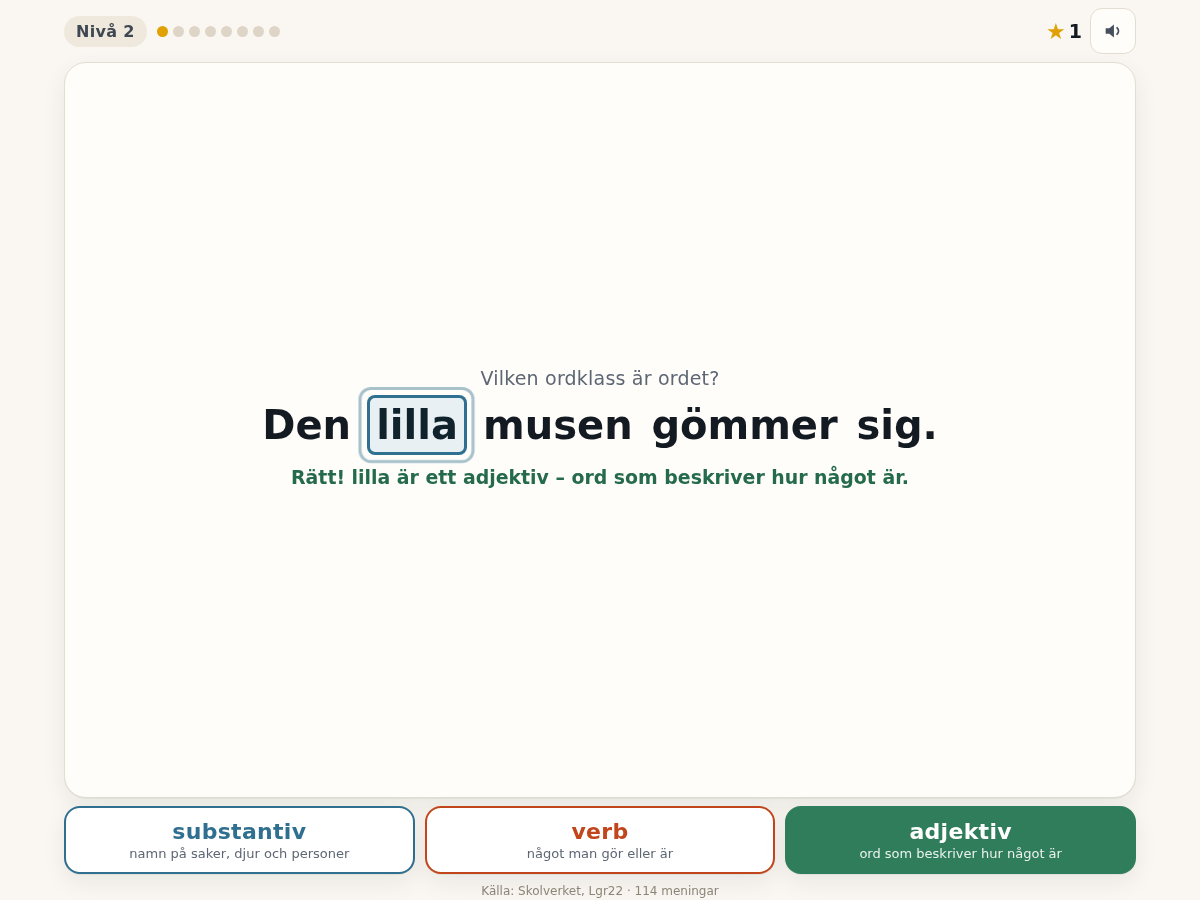
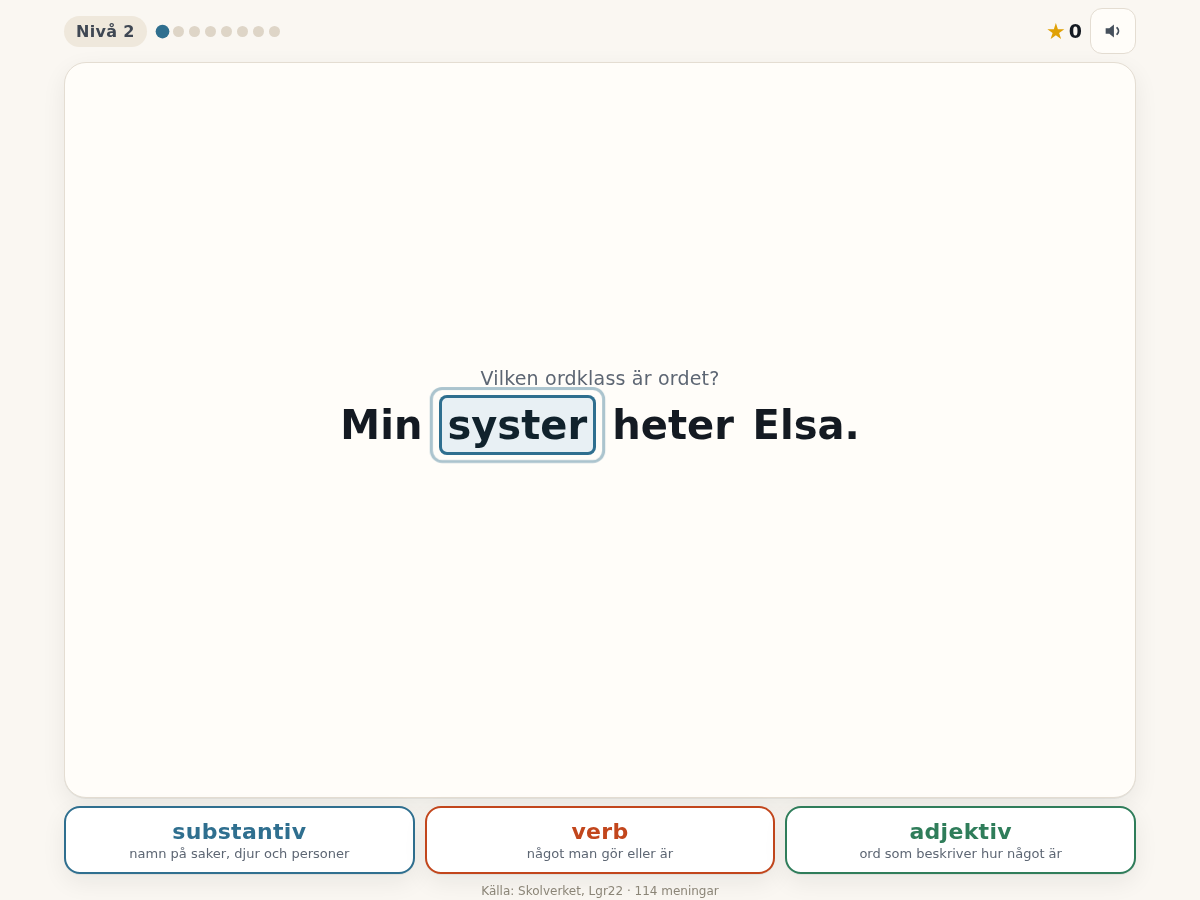
KONCEPT, INSKICK, README och kortbild

Changed region(s): [[0.2158, 0.4044, 0.7708, 0.56], [0.6475, 0.8711, 0.9558, 0.9956], [0.1233, 0.0311, 0.1542, 0.0622]]

diff --git a/KONCEPT.md b/KONCEPT.md
@@ -1,0 +1,58 @@
+# Ordklassjakten – koncept och testplan
+
+**Mål (en sak):** eleven ska kunna avgöra vilken ordklass ett ord i en mening tillhör.
+**Målgrupp:** svenska åk 4–6 (9–11 år). Läskunnig, men inte van vid grammatiska etiketter.
+**Kärnmekanik (touch först):** en riktig mening står i mitten, ett ord lyser med pulserande ram.
+Fyra (nivå 1: två) stora knappar längst ned: substantiv, verb, adjektiv, pronomen. Ett tryck = ett svar.
+**5-minuterssession:** 8 uppgifter per runda, tre nivåer, rundan tar 2–3 minuter – "en runda till" är billig.
+**Belöning barnet kan berätta om:** stjärnor (en per rätt svar på första försöket) och en rad som säger
+vad ordet var ("stänger är ett verb – något man gör eller är").
+**Vad barnet lär:** kriteriet för varje ordklass, inte bara etiketten; att tempusformer (sprang, läste)
+fortfarande är verb och att pronomen står i stället för namn.
+**Lgr22:** SV.4-6.1.7 – "Stavning, ords böjningsformer och ordklasser." (ordagrant ur Skolverkets
+centrala innehåll, hämtat via get_curriculum 2026-11-25). Punktens text i sin helhet citeras på
+startskärmen.
+**Varför iPad:** två tryckytor i botten som en 9-åring träffar med tummen, ingen drag, ingen text
+som måste scrollas, inget ljud som krävs (allt står också skrivet), inga länkar ut.
+
+## Testplan (mätbara krav)
+
+| Krav | Mätning | Utfall |
+|---|---|---|
+| Allt ryms, ingen sidscroll | `scrollHeight-innerHeight` = 0 och `scrollWidth-innerWidth` = 0 i 1024×768, 768×1024, 390×844, 1440×900 | 0/0 i alla fyra, både på startskärmen och i spelet |
+| Tryckytor | minst 56 px höga (åk 3–6 → ≥ 56) | 68 px (iPad/desktop), 78 px (390 px telefon) |
+| Spelbart med bara fingrar | hela rundan med `Input.dispatchTouchEvent` (touchStart/Move/End) | nivå 1: 8/8, nivå 3: 8/8 med fyra knappar 242 px breda |
+| Tangentbord som tredje väg | siffra 1–4 väljer knapp | `2` gav rätt svar på "hörde" |
+| Återkoppling + nytt försök | fel svar flyttar inte uppgiften, andra felet tänder rätt knapp | verifierat: `S.i` stod kvar, rätt knapp fick puls |
+| Ingen förlust | stjärnor kan inte bli negativa, ingen timer | 7/8 efter ett avsiktligt fel |
+| Faktakontroll | ordet finns exakt en gång i meningen, ett ord = en klass, 9 000 rundor | `node verify.mjs`: 114 uppgifter, 0 fel |
+| Mörk/ljus, rörelse | `prefers-reduced-motion` stänger av puls | `animationName: none` |
+| Inga externa resurser | bara `kotten.js` från skolappar.com | alla andra filer lokala |
+
+## Validering före bygge (go/no-go)
+
+`delegate_task` finns inte i den här körningens verktyg, så granskningen gjordes som en skriven
+självkritik mot de tre frågorna:
+(a) *Spelar ett barn frivilligt 5 minuter?* Ja om rundan är kort och svaret ger en förklaring –
+därför 8 uppgifter, stjärnor och "en runda till". Svagheten är att mekaniken är en frågesport utan
+rörelse; motmedlet är att målet lyser i meningen så att barnet slipper leta.
+(b) *Träffar det ett verkligt kunskapskrav?* Ja, SV.4-6.1.7 nämner ordklasser uttryckligen, och
+ordklasser förhörs i nationella provens språkdel i åk 6.
+(c) *Teknisk risk?* Låg: ingen fysik, ingen canvas, ingen server. Den verkliga risken är grammatisk
+– därför bara entydiga ord (inga adverb på -t, inga partiklar) och en verifierare som kontrollerar
+att varje ord hör till en och bara en klass. **GO.**
+
+## Iteration efter test
+
+1. Fel-svaret var först "Titta på ordet en gång till", vilket inte säger något om *varför*. Nu:
+   "Inte riktigt. stänger är inte ett substantiv. Prova igen." – barnets hypotes namnges, kriteriet
+   blir synligt.
+2. Kortbilden togs först direkt efter ett rätt svar (utfylld grön knapp + förklaring), vilket läste
+   som en resultatskärm. Ny bild: pågående uppgift, mening + markerat ord + de tre knapparna.
+
+## Vad som återstår
+
+Publicering på `ordklassjakten.shipholm.dev` är blockerad: kontot har 50 av 50 appar (Pro-planen).
+Repot är pushat (`github.com/magnusfroste/ordklassjakten`, `main` = 5cc329c) och appen är testad
+lokalt; `create_app` svarar "the pro plan allows 50 apps and you have 50". Katalograd, bild och
+Lgr22-punkter läggs in så snart en plats finns.

diff --git a/INSKICK.md b/INSKICK.md
@@ -1,0 +1,24 @@
+# Inskick till katalogen – Ordklassjakten
+
+- **Titel:** Ordklassjakten
+- **Slug/URL (när publicerad):** https://ordklassjakten.shipholm.dev
+- **Kort beskrivning:** Läs meningen och välj vilken ordklass ordet som lyser tillhör: substantiv, verb,
+  adjektiv eller pronomen. 114 meningar i tre nivåer.
+- **long_description:** Ordklassjakten är ett träningsspel i svenska för åk 4–6. Varje uppgift är en
+  riktig mening där ett ord är markerat, och eleven väljer vilken ordklass ordet tillhör. Nivå 1 blandar
+  substantiv och verb, nivå 2 lägger till adjektiv och nivå 3 pronomen, alltså fyra klasser och fyra
+  svarsknappar. Efter varje svar förklaras klassen med en rad – "stänger är ett verb: något man gör
+  eller är" – så att eleven får själva kriteriet och inte bara rätt eller fel. Fel svar kostar inget:
+  eleven får en ny chans, och efter två försök pulserar rätt knapp. Åtta uppgifter per runda, stjärna
+  för rätt svar på första försöket, och en tydlig slutskärm med "en runda till" eller nästa nivå.
+  114 meningar, alla skrivna för appen och kontrollerade av ett testskript som prövar att varje ord
+  hör till en och bara en ordklass. Frågan läses också upp på svenska, men allt står skrivet så att
+  appen fungerar i ett tyst klassrum. Ingen inloggning, inga annonser, inga länkar ut.
+- **Ämne:** Språk (svenska)
+- **Årskurs:** 3–6
+- **Typ:** Öva
+- **Enhet:** Alla enheter (iPad först)
+- **Lgr22:** SV.4-6.1.7 – "Stavning, ords böjningsformer och ordklasser."
+- **Kortbild:** `public/kort.png` (1200×900, spelmoment: mening med markerat ord och svarsknappar)
+
+Källa i appen: Skolverket, läroplanen för grundskolan (Lgr22), centralt innehåll svenska åk 4–6.
